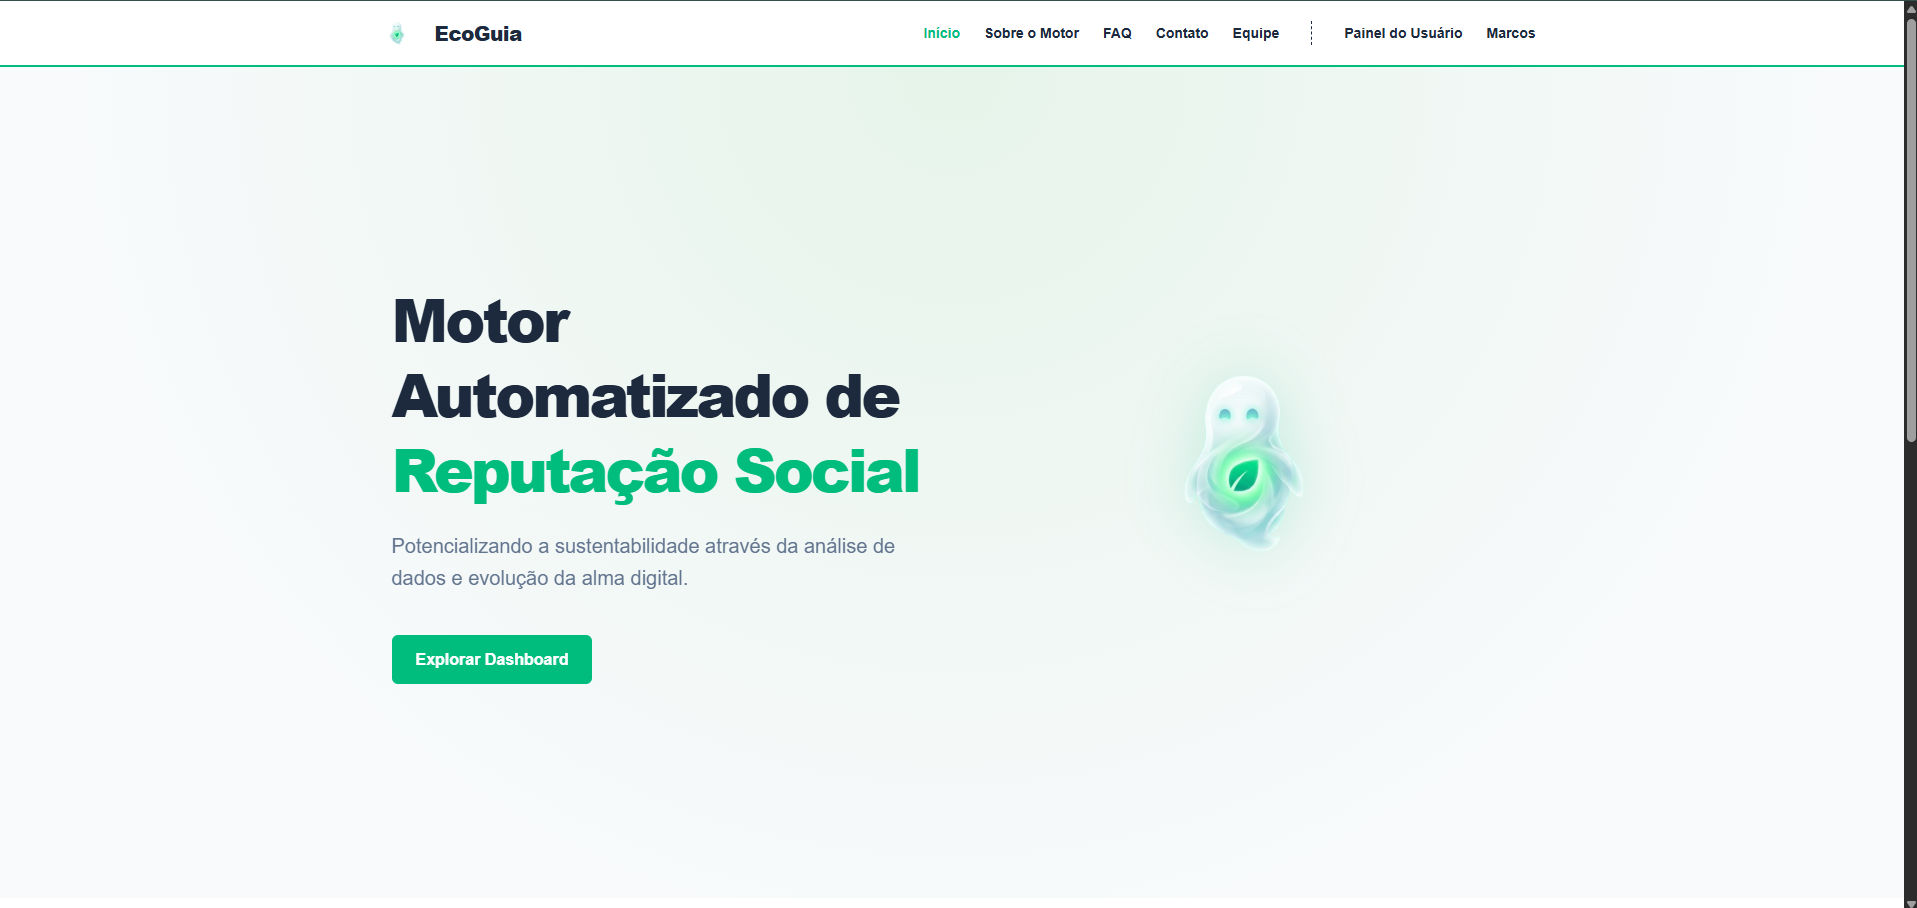
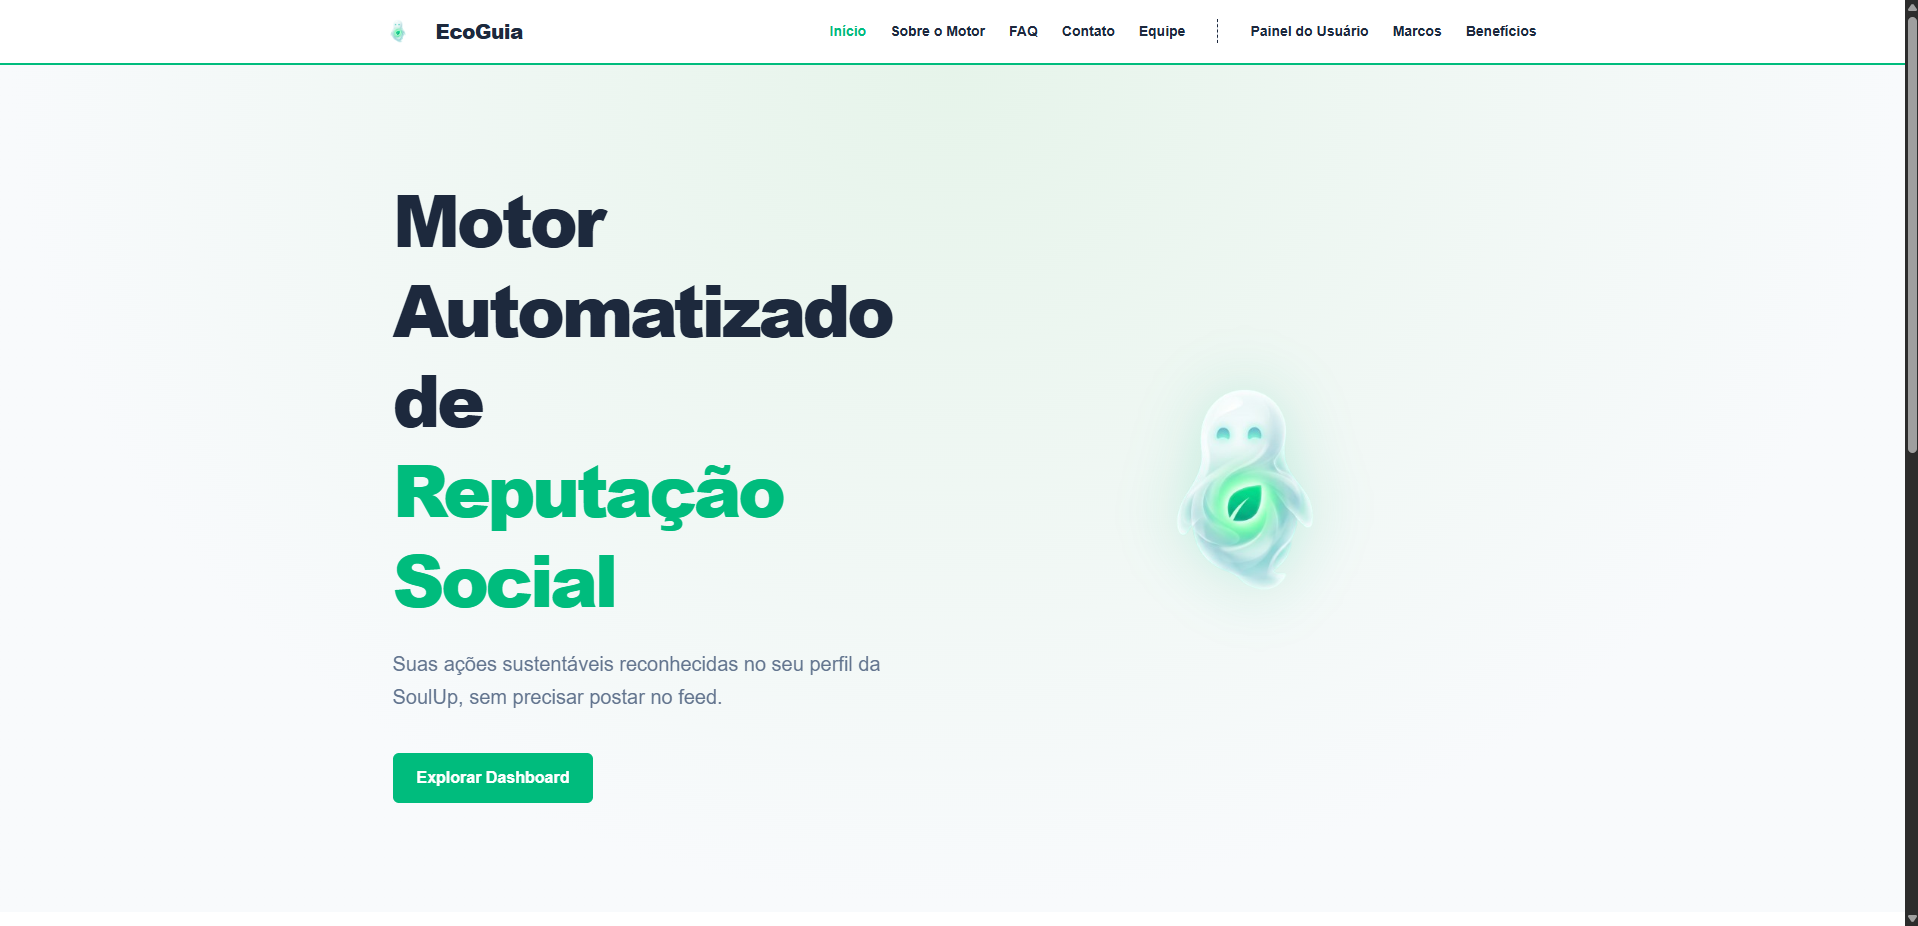
docs: atualiza README com links finais e novos prints

diff --git a/README.md b/README.md
@@ -1,110 +1,100 @@
 # EcoGuia - Motor de Reputação SoulUp
 
-O **EcoGuia** é uma aplicação Single Page Application (SPA) que centraliza e comprova o histórico de ações ecológicas dos usuários através de um **Motor de Reputação Social** gamificado, a *Aura Digital*. Esta entrega representa a **SPRINT 04 - Front-End Design Engineering**: o site agora consome a API REST desenvolvida em Java pelo grupo.
+O EcoGuia é uma Single Page Application (SPA) que centraliza e comprova o histórico de ações ecológicas dos usuários por meio de um Motor de Reputação Social gamificado. As ações sustentáveis do usuário são reconhecidas no seu perfil da SoulUp, sem precisar postar no feed.
 
-## 🛠 Tecnologias Utilizadas
+Projeto da equipe LuminaTech para a Sprint 4 de Front-End Design Engineering (Challenge FIAP). O site consome a API REST desenvolvida em Java pelo grupo.
 
-- **React 19** (Interface e Componentização)
-- **Vite** (Ferramenta de Build)
-- **TypeScript** (Tipagem estática, incluindo as respostas da API)
-- **Tailwind CSS v4** (Estilização responsiva)
-- **React Router DOM** (Rotas estáticas, rota dinâmica e página 404)
-- **React Hook Form** (Formulários com validação)
-- **Fetch API** (Requisições HTTP para a API Java)
-- **Vercel** (Deploy da aplicação)
+## Tecnologias Utilizadas
 
-## 🔌 Integração com a API Java
+- React 19
+- Vite
+- TypeScript
+- Tailwind CSS v4
+- React Router DOM
+- React Hook Form
+- Fetch API (requisições para a API Java)
+- Vercel (deploy)
 
-Todas as chamadas ficam na pasta `src/services`, uma por recurso da API. O projeto não tem login: o site usa o usuário de id 1 cadastrado no banco (constante `USUARIO_ID` em `src/services/api.ts`).
-
-| Tela | Requisições | O que o usuário faz |
-| :--- | :--- | :--- |
-| Painel do Usuário | `GET /usuarios/1`, `GET /avatares/{id}`, `GET /badges`, `GET /conquistas` | Vê nome, cidade, ofensiva, nível, XP e os marcos do perfil |
-| Painel: Registrar ação | `PUT /avatares/{id}`, `PUT /usuarios/1` | Escolhe uma ação, o XP é somado e a API recalcula o nível. A primeira ação do dia soma +1 no Eco-Ciclo |
-| Marcos | `GET /badges`, `GET /conquistas` | Vê todos os marcos e quais estão no perfil |
-| Marcos: exibir / tirar do perfil | `POST /conquistas`, `DELETE /conquistas/{id}` | Coloca ou tira um marco do perfil |
-| Detalhe do marco (`/marcos/:id`) | `GET /badges/{id}` | Vê o marco. Se o id não existir, volta para a lista |
-| Editar perfil | `PUT /usuarios/1` | Altera nome, e-mail e cidade |
-| Benefícios | `GET /avatares/{id}` (via contexto) | Vê os benefícios do Eco-Ciclo liberados pelo nível do avatar |
-
-Toda tela que usa a API mostra mensagem de carregamento, de erro (com botão para tentar de novo) e de lista vazia.
-
-> A API está no plano gratuito do Render, que desliga o servidor quando fica parado. Por isso a primeira carga pode levar até 1 minuto. Depois disso as telas carregam normalmente.
-
-## 📁 Estrutura de Pastas do Projeto
+## Estrutura de Pastas do Projeto
 
 ```text
-📦 ecoguia
- ┣ 📂 public                # Assets estáticos (favicon)
- ┣ 📂 src
- ┃ ┣ 📂 assets              # Imagens (alma.png, fotos do time, prints)
- ┃ ┣ 📂 components          # Componentes reutilizáveis (Header, Footer, Button, Card, StatusMensagem...)
- ┃ ┣ 📂 context             # Contexto do usuário (UserContext.ts e UserProvider.tsx)
- ┃ ┣ 📂 pages               # Páginas da SPA (Home, Sobre, FAQ, Contato, Integrantes, Dashboard, Marcos, MarcoDetalhe, Beneficios, EditarPerfil, NaoEncontrada)
- ┃ ┣ 📂 routes              # Rotas da aplicação (AppRoutes.tsx)
- ┃ ┣ 📂 services            # Chamadas à API Java (api.ts, usuarioService, avatarService, badgeService, conquistaService)
- ┃ ┣ 📂 types               # Interfaces e tipos globais (index.ts)
- ┃ ┣ 📂 utils               # Funções auxiliares (marcos.ts)
- ┃ ┣ 📜 App.tsx             # Componente raiz
- ┃ ┣ 📜 index.css           # Estilização global mínima
- ┃ ┗ 📜 main.tsx            # Ponto de entrada da aplicação
- ┣ 📜 package.json          # Dependências e scripts
- ┣ 📜 tsconfig.json         # Configuração do TypeScript
- ┣ 📜 vercel.json           # Redirecionamento das rotas da SPA na Vercel
- ┗ 📜 vite.config.ts        # Configuração do Vite
+Ecoguia-FIAP
+├── README.md
+└── ecoguia
+    ├── public              # favicon e ícones
+    ├── src
+    │   ├── assets          # imagens (Alma Digital, fotos da equipe, prints)
+    │   ├── components      # componentes reutilizáveis (Header, Footer, Button, Card...)
+    │   ├── context         # contexto do usuário
+    │   ├── pages           # páginas da aplicação
+    │   ├── routes          # rotas (AppRoutes.tsx)
+    │   ├── services        # chamadas à API Java
+    │   ├── types           # tipos globais (index.ts)
+    │   ├── utils           # funções auxiliares
+    │   ├── App.tsx
+    │   ├── index.css
+    │   └── main.tsx
+    ├── package.json
+    ├── tsconfig.json
+    ├── vercel.json
+    └── vite.config.ts
 ```
 
-## ▶ Como rodar o projeto
+## Autores e Créditos
+
+| Foto | Nome | RM | Turma | GitHub | LinkedIn |
+| :---: | :--- | :--- | :--- | :--- | :--- |
+| <img src="./ecoguia/src/assets/img/foto-ana.jpeg" alt="Ana" width="80" /> | Ana Paula Cunha Brum | 571359 | 1º TDSR | [abbrum](https://github.com/abbrum) | [LinkedIn](https://www.linkedin.com/in/ana-paula-brum/) |
+| <img src="./ecoguia/src/assets/img/foto-gabriella.jpg" alt="Gabriella" width="80" /> | Gabriella Serni Ponzetta | 566296 | 1º TDSR | [gabriellaserni](https://github.com/gabriellaserni) | [LinkedIn](https://www.linkedin.com/in/gabriellaserni/) |
+| <img src="./ecoguia/src/assets/img/foto-victor.jpg" alt="Victor" width="80" /> | Victor Felipe Silva Alencar | 574057 | 1º TDSR | [alencarVictor](https://github.com/alencarVictor) | [LinkedIn](https://www.linkedin.com/in/victor-alencar-58623a3ba/) |
+| <img src="./ecoguia/src/assets/img/foto-julio.jpg" alt="Julio" width="80" /> | Julio Cesar Iwata de Oliveira Barros | 573723 | 1º TDSR | [IwaataNz3](https://github.com/IwaataNz3) | [LinkedIn](https://www.linkedin.com/in/julioiwata/) |
+| <img src="./ecoguia/src/assets/img/foto-rafael.jpg" alt="Rafael" width="80" /> | Rafael Santos Dias | 574105 | 1º TDSR | [realrafaelsd](https://github.com/realrafaelsd) | [LinkedIn](https://www.linkedin.com/in/rafaelsd/) |
+
+## Imagens e Ícones do Projeto
+
+Alma Digital, o avatar que evolui com as ações ecológicas do usuário:
+
+<img src="./ecoguia/src/assets/img/alma.png" alt="Alma Digital" width="160" />
+
+Ícones dos marcos: 🏅 marco normal e 👑 marco lendário.
+
+Página Inicial
+
+![Home](./ecoguia/src/assets/img/home.png)
+
+Painel do Usuário
+
+![Painel do Usuário](./ecoguia/src/assets/img/dashboard.png)
+
+Marcos
+
+![Marcos](./ecoguia/src/assets/img/marcos.png)
+
+## Como Usar
+
+### Links
+
+- Repositório do GitHub: https://github.com/IwaataNz3/Ecoguia-FIAP
+- Deploy na Vercel: https://ecoguia-fiap.vercel.app/
+- Vídeo de apresentação (YouTube): https://youtu.be/n0OeIjcxFZ0
+- API Java publicada: https://ecoguia-api-rest.onrender.com
+
+### Instalação e execução
+
+Pré-requisitos: Node.js e Git.
 
 ```bash
-cd ecoguia
+git clone https://github.com/IwaataNz3/Ecoguia-FIAP.git
+cd Ecoguia-FIAP/ecoguia
 npm install
 npm run dev
 ```
 
-O endereço da API fica na constante `API_URL`, em `src/services/api.ts` (https://ecoguia-api-rest.onrender.com).
+Depois, abra o endereço que aparece no terminal (normalmente http://localhost:5173).
 
-## 👨💻 Autores e Créditos
+A API está no plano gratuito do Render, então a primeira carga pode levar até 1 minuto.
 
-Equipe responsável pelo desenvolvimento do EcoGuia:
+## Contato
 
-| Foto | Nome / RM / Turma | GitHub | LinkedIn |
-| :---: | :--- | :--- | :--- |
-| ![Ana](./ecoguia/src/assets/img/foto-ana.jpeg) | **Ana Paula Cunha Brum**<br>RM: 571359<br>Turma: 1º TDSR | [abbrum](https://github.com/abbrum) | [LinkedIn](https://www.linkedin.com/in/ana-paula-brum/) |
-| ![Gabriella](./ecoguia/src/assets/img/foto-gabriella.jpg) | **Gabriella Serni Ponzetta**<br>RM: 566296<br>Turma: 1º TDSR | [gabriellaserni](https://github.com/gabriellaserni) | [LinkedIn](https://www.linkedin.com/in/gabriellaserni/) |
-| ![Victor](./ecoguia/src/assets/img/foto-victor.jpg) | **Victor Felipe Silva Alencar**<br>RM: 574057<br>Turma: 1º TDSR | [alencarVictor](https://github.com/alencarVictor) | [LinkedIn](https://www.linkedin.com/in/victor-alencar-58623a3ba/) |
-| ![Julio](./ecoguia/src/assets/img/foto-julio.jpg) | **Julio Cesar Iwata de Oliveira Barros**<br>RM: 573723<br>Turma: 1º TDSR | [IwaataNz3](https://github.com/IwaataNz3) | [LinkedIn](https://www.linkedin.com/in/julioiwata/) |
-| ![Rafael](./ecoguia/src/assets/img/foto-rafael.jpg) | **Rafael Santos Dias**<br>RM: 574105<br>Turma: 1º TDSR | [realrafaelsd](https://github.com/realrafaelsd) | [LinkedIn](https://www.linkedin.com/in/rafaelsd/) |
-
-## 🖼 Imagens e Ícones do Projeto
-
-Abaixo estão algumas demonstrações visuais da nossa aplicação:
-
-### Alma Digital
-![Alma Digital](./ecoguia/src/assets/img/alma.png)
-*O avatar que evolui de acordo com suas ações ecológicas validadas pelo motor.*
-
-### Screenshots
-
-**Página Inicial (Home)**
-![Home](./ecoguia/src/assets/img/home.png)
-
-**Painel do Usuário (Dashboard)**
-![Dashboard](./ecoguia/src/assets/img/dashboard.png)
-
-**Trilha de Marcos**
-![Marcos](./ecoguia/src/assets/img/marcos.png)
-
-## 🔗 Como Usar (Links Úteis)
-
-- **Repositório do GitHub:** https://github.com/IwaataNz3/Ecoguia-React-FIAP
-- **Deploy na Vercel:** (a definir)
-- **API Java publicada:** https://ecoguia-api-rest.onrender.com
-- **Repositório da API Java:** https://github.com/alencarVictor/ecoguia-API-REST
-- **Vídeo de apresentação da Sprint 4 (YouTube):** (a definir)
-
-## ✉ Contato
-
-Caso tenha dúvidas sobre o projeto ou a arquitetura proposta:
-- **E-mail Geral:** rm573723@fiap.com.br
-- **Suporte Técnico:** rm574057@fiap.com.br
+- E-mail geral: rm573723@fiap.com.br
+- Suporte técnico: rm574057@fiap.com.br
